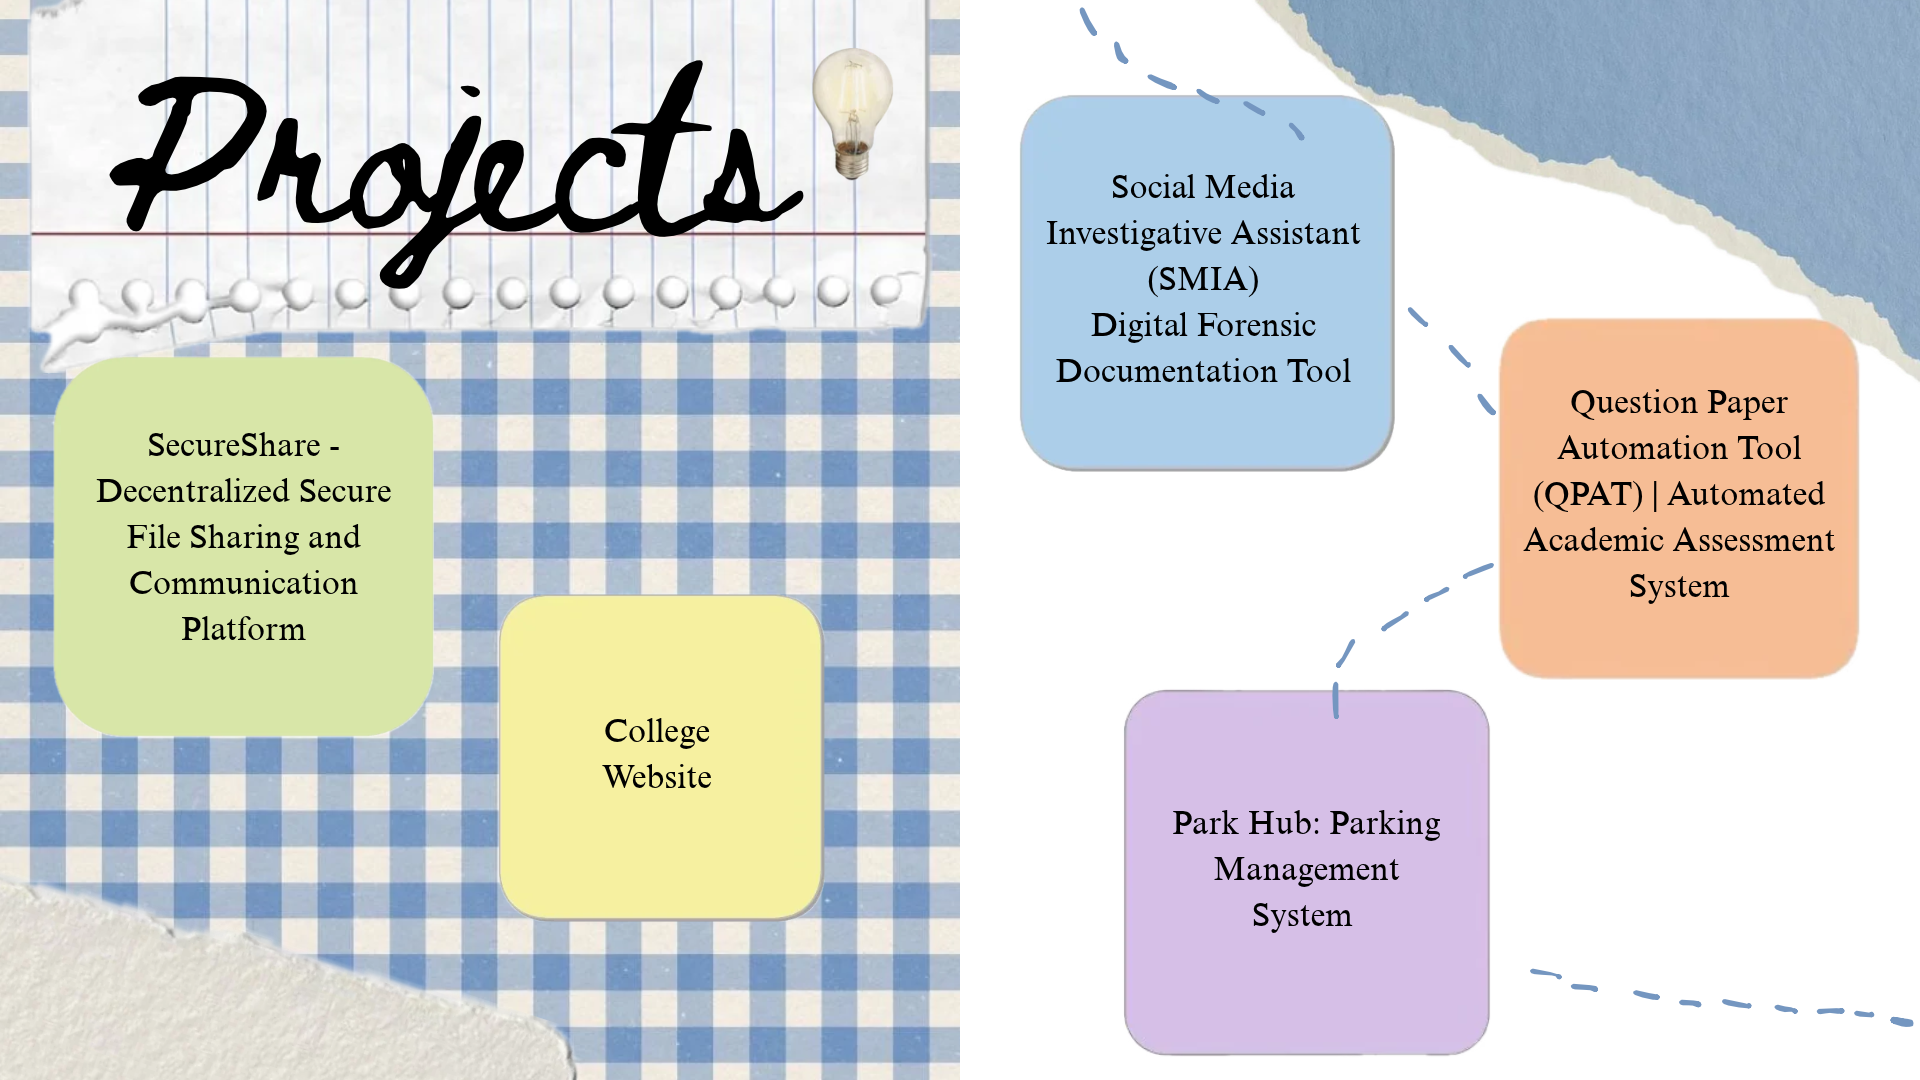
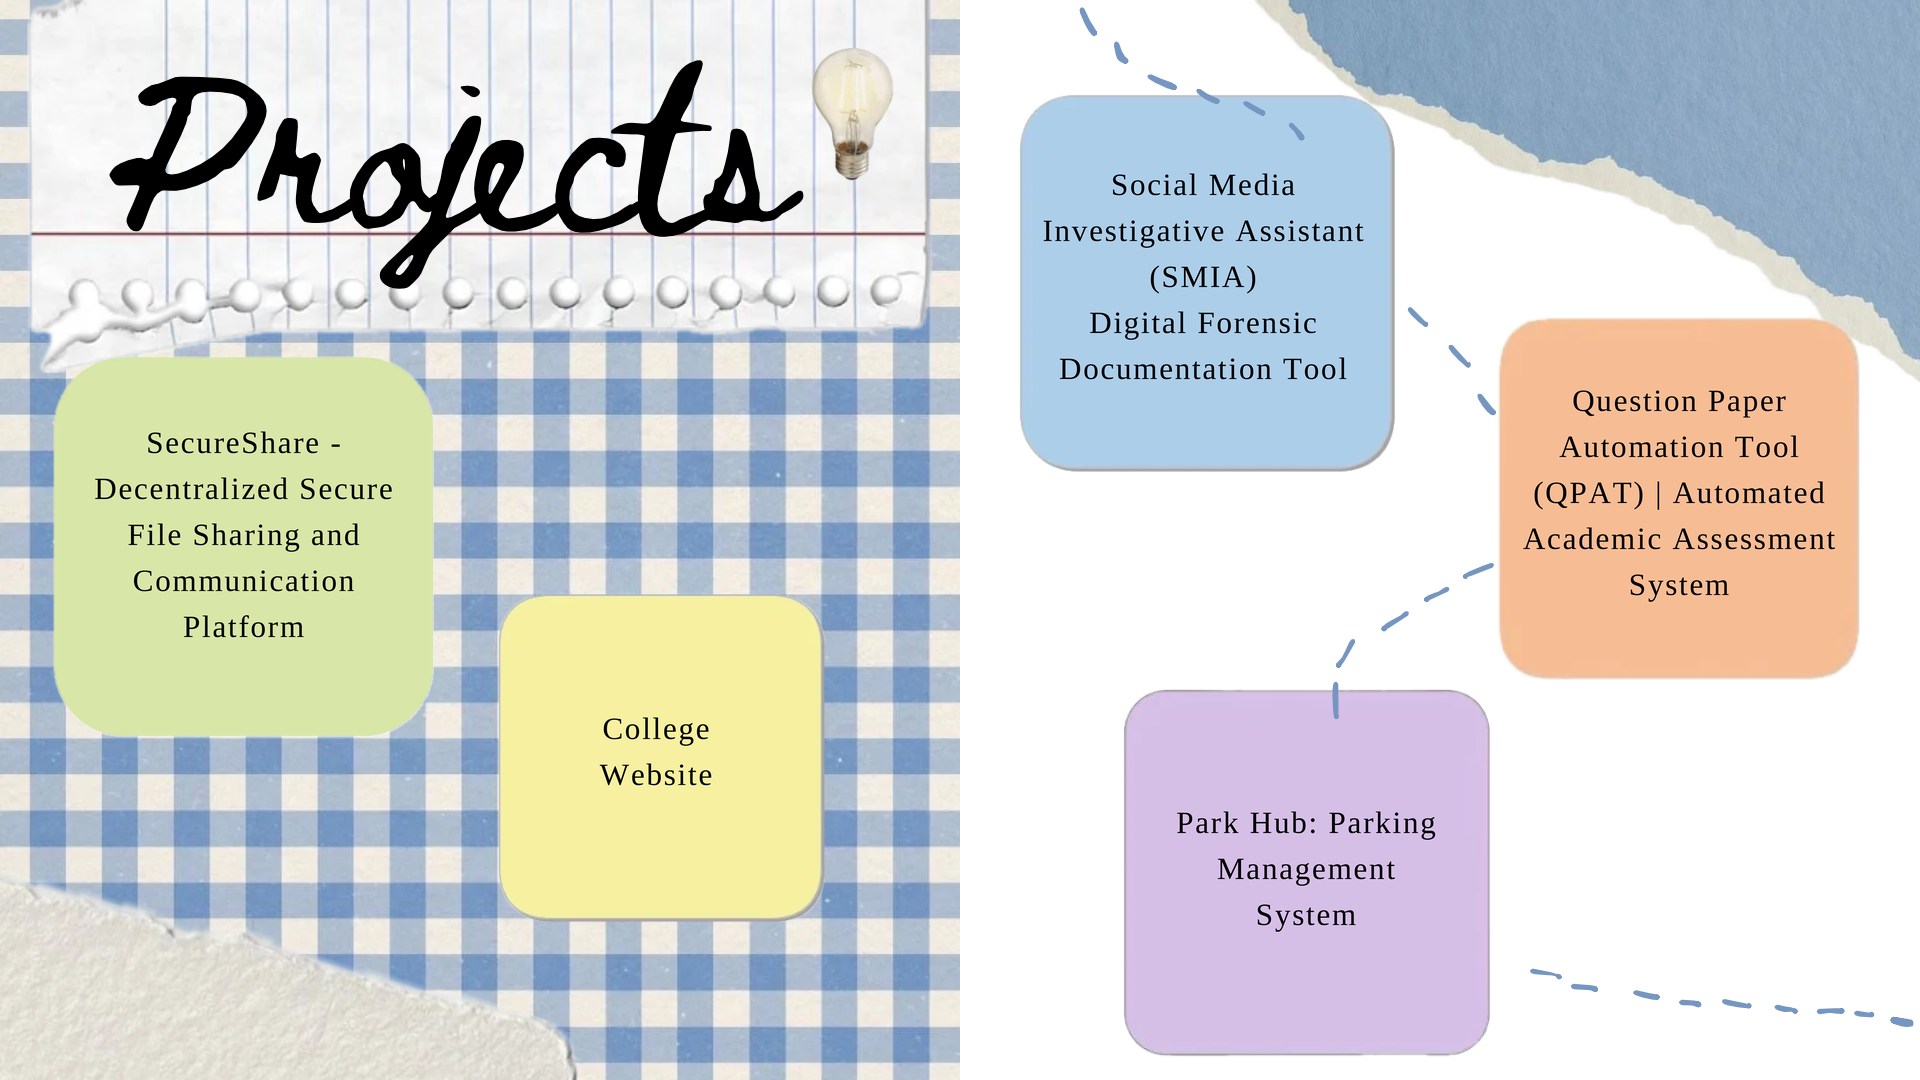
fix(projects): restore uniform typography across all project cards on Page 4

diff --git a/src/components/portfolio/SpreadProjects.tsx b/src/components/portfolio/SpreadProjects.tsx
@@ -7,10 +7,12 @@ interface SpreadProps {
 export const SpreadProjects: React.FC<SpreadProps> = ({ className = '' }) => {
   return (
     <div className={`relative w-full h-full select-none overflow-hidden bg-white ${className}`}>
-      {/* High-Definition Master Design */}
+      {/* High-Definition Master Design with Uniform Typography */}
       <img
-        src="/designs/Page4.png"
+        src="/designs/Page4.png?v=uniform"
         alt="Projects Spread"
+        loading="eager"
+        fetchPriority="high"
         className="w-full h-full object-fill pointer-events-none select-none"
       />
 
